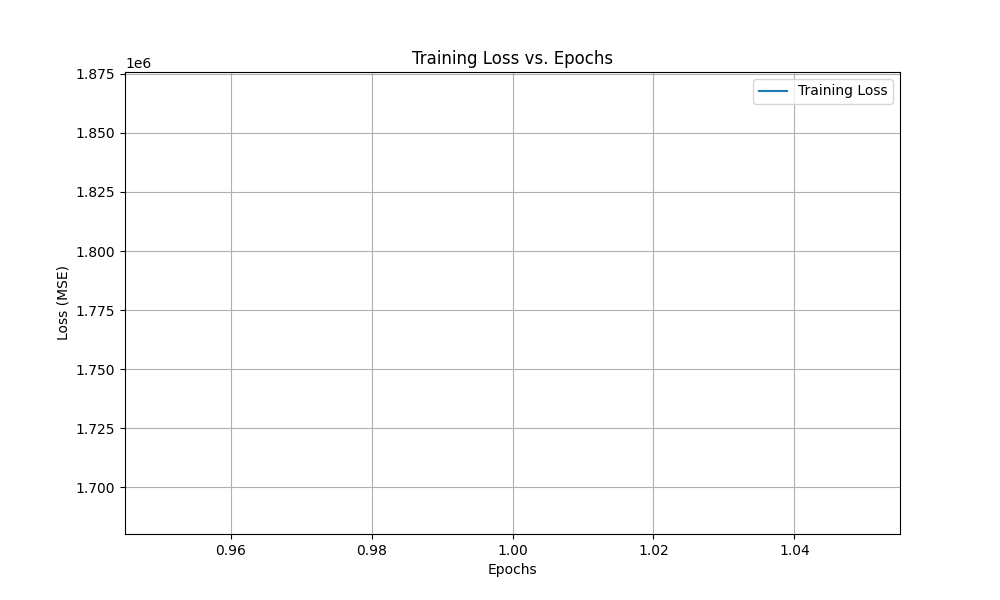
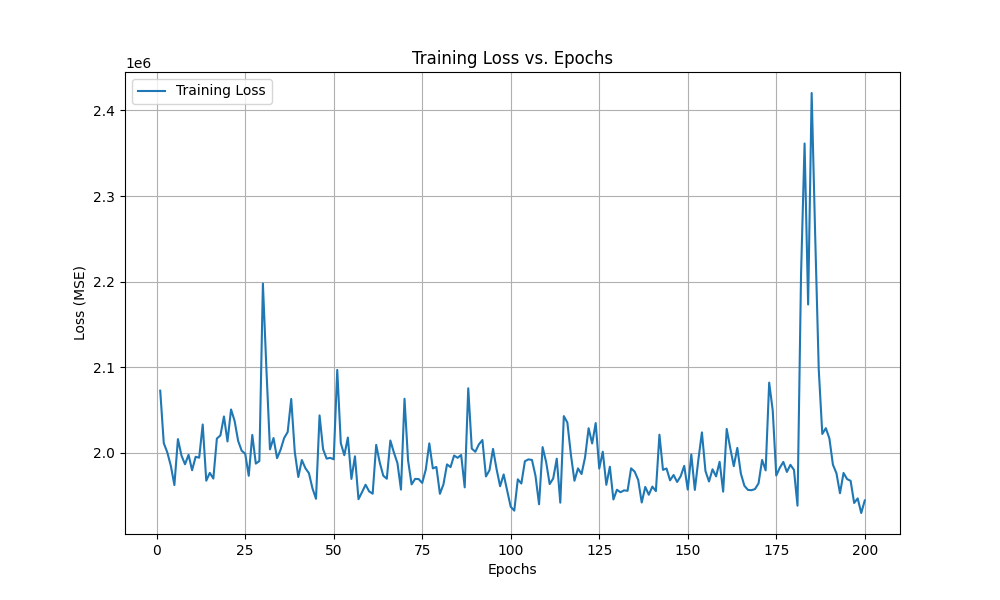
can create training set and CNN

diff --git a/neural_to_cbd.py b/neural_to_cbd.py
@@ -7,37 +7,9 @@ from PIL import Image
 import os
 import random
 import le_tools
-try:
-    from neuralnet import MyCNN
-except ImportError:
-    class MyCNN(nn.Module):
-        def __init__(self):
-            super(MyCNN, self).__init__()
-            self.conv1 = nn.Conv2d(in_channels=128, out_channels=64, kernel_size=3, padding=1)
-            self.relu1 = nn.ReLU()
-            self.conv2 = nn.Conv2d(in_channels=64, out_channels=32, kernel_size=3, padding=1)
-            self.relu2 = nn.ReLU()
-            self.conv3 = nn.Conv2d(in_channels=32, out_channels=16, kernel_size=3, padding=1)
-            self.relu3 = nn.ReLU()
-            self.conv4 = nn.Conv2d(in_channels=16, out_channels=4, kernel_size=3, padding=1)
-            self.relu4 = nn.ReLU()
-            self.conv5 = nn.Conv2d(in_channels=4, out_channels=2, kernel_size=3, padding=1)
-            self.relu5 = nn.ReLU()
-            self.conv6 = nn.Conv2d(in_channels=2, out_channels=1, kernel_size=3, padding=1)
+from neuralnet import MyCNN
 
-        def forward(self, x):
-            x = self.conv1(x)
-            x = self.relu1(x)
-            x = self.conv2(x)
-            x = self.relu2(x)
-            x = self.conv3(x)
-            x = self.relu3(x)
-            x = self.conv4(x)
-            x = self.relu4(x)
-            x = self.conv5(x)
-            x = self.relu5(x)
-            x = self.conv6(x)
-            return x
+ 
 hhdcs_dir = '/Users/avnee/PointCloudLidarReplicate/HHDC'
 hhdcs_files = le_tools.get_files(hhdcs_dir, concat_dir=True)
 
@@ -109,22 +81,27 @@ def compare_random_sample(model_path, input_dir, target_dir):
     input_files = [f for f in os.listdir(input_dir) if f.endswith('.npz')]
     valid_pairs = []
     
+    # We now strictly look for the corresponding .npy file since we want to plot from array, not image
+    cbd_arrays_dir = '/Users/avnee/PointCloudLidarReplicate/cbd_arrays'
+
     for f_in in input_files:
         stem = os.path.splitext(f_in)[0]
-        f_target = f"{stem}.png"
+        # We need the numpy target to exist
+        f_target_npy = f"{stem}.npy"
         
-        if os.path.exists(os.path.join(target_dir, f_target)):
-            valid_pairs.append((f_in, f_target))
+        if os.path.exists(os.path.join(cbd_arrays_dir, f_target_npy)):
+            valid_pairs.append(f_in)
             
     if not valid_pairs:
-        print("No matches found using exact filename matching.")
+        print("No matches found (checked for corresponding .npy files in cbd_arrays).")
         return
 
-    chosen_input_file, chosen_target_file = random.choice(valid_pairs)
-    print(f"Comparing: {chosen_input_file}  <--->  {chosen_target_file}")
+    chosen_input_file = random.choice(valid_pairs)
+    print(f"Comparing: {chosen_input_file}")
 
     full_input_path = os.path.join(input_dir, chosen_input_file)
-    full_target_path = os.path.join(target_dir, chosen_target_file)
+    stem = os.path.splitext(chosen_input_file)[0]
+    npy_target_path = os.path.join(cbd_arrays_dir, f"{stem}.npy")
 
     npz_data = np.load(full_input_path)
     if 'tensor' in npz_data.files:
@@ -135,14 +112,16 @@ def compare_random_sample(model_path, input_dir, target_dir):
     input_array = input_array.transpose(2, 0, 1) 
     input_tensor = torch.from_numpy(input_array).unsqueeze(0)
 
+    # Resize input to match model training dimensions (32, 64)
+    target_size = (32, 64)
+    input_tensor = torch.nn.functional.interpolate(input_tensor, size=target_size, mode='bilinear', align_corners=False)
 
-    dest_height = input_array.shape[1]
-    dest_width = input_array.shape[2]
-    
-
-    original_target_img = Image.open(full_target_path).convert("RGB")
-    original_target_img = original_target_img.resize((dest_width, dest_height))
-    original_target_array = np.array(original_target_img)
+    # Load and interpolate the target array
+    raw_target = np.load(npy_target_path)
+    t_tensor = torch.from_numpy(raw_target).float().unsqueeze(0).unsqueeze(0)
+    # Use nearest neighbor interpolation for the ground truth grid to preserve values
+    t_tensor = torch.nn.functional.interpolate(t_tensor, size=target_size, mode='nearest')
+    target_data_for_plot = t_tensor.squeeze().numpy()
 
     with torch.no_grad():
         prediction_tensor = model(input_tensor)
@@ -153,25 +132,43 @@ def compare_random_sample(model_path, input_dir, target_dir):
     #output_npy_filename = f"prediction_{chosen_input_file.replace('.npz', '')}.npy"
    #np.save(output_npy_filename, prediction_array)
     #print(f"Saved model output to {output_npy_filename}")
-    hhdc_hr_dem, hhdc_hr_dtm, hhdc_hr_chm = get_views(hhdc_hr)
-    colors = ["darkblue", "darkgreen", "green", "yellow", "orange", "red", "darkred", "brown"]
+
+    # compute CHM for the specific sample
+    try:
+        if 'arr_0' in npz_data:
+            hhdc_obj = npz_data['arr_0']
+        elif 'tensor' in npz_data:
+             hhdc_obj = npz_data['tensor']
+        else:
+             hhdc_obj = npz_data[npz_data.files[0]]
+        _, _, (filtered_chm, _) = get_views(hhdc_obj)
+        filtered_chm = np.flipud(filtered_chm)
+    except Exception as e:
+        print(f"Error calculating CHM: {e}")
+        # fallback if calculation fails
+        hhdc_hr_dem, hhdc_hr_dtm, hhdc_hr_chm = get_views(hhdc_hr)
+        filtered_chm = hhdc_hr_chm[1]
+
+    colors = ["darkblue","darkgreen", "green","lightgreen", "yellow", "orange", "red", "darkred", "brown"]
     custom_cmap = LinearSegmentedColormap.from_list("forest_fire", colors, N=256)
 
     plt.figure(figsize=(18, 6))
 
     plt.subplot(1, 3, 1)
-    plt.imshow(hhdc_hr_chm[1], cmap='viridis')
+    plt.imshow(filtered_chm, cmap='viridis')
     plt.title(f"Input: CHM", fontsize=14)
     plt.colorbar()
+    
     plt.subplot(1, 3, 2)
-    plt.imshow(prediction_array, cmap=custom_cmap)
+    plt.imshow(target_data_for_plot, cmap=custom_cmap, vmin=0.0, vmax=0.10)
+    plt.title("Target (Ground Truth)", fontsize=14)
+    plt.colorbar()
+    
+    plt.subplot(1, 3, 3)
+    plt.imshow(prediction_array, cmap=custom_cmap, vmin=0.0, vmax=0.10)
     plt.title("Model Prediction", fontsize=14)
     plt.colorbar()
 
-
-    plt.subplot(1, 3, 3)
-    plt.imshow(original_target_array)
-    
     plt.suptitle(f"Verification: {chosen_input_file}", fontsize=16)
     plt.tight_layout()
     plt.show()

diff --git a/neuralnet.py b/neuralnet.py
@@ -18,35 +18,77 @@ random_hhdc = np.random.choice(hhdcs_files, 1)[0]
 print(f"Selected File: {random_hhdc}")
 
 hhdc_hr = np.load(random_hhdc)['arr_0']
+
+
 class MyCNN(nn.Module):
     def __init__(self):
         super(MyCNN, self).__init__()
-        self.conv1 = nn.Conv2d(in_channels=128, out_channels=64, kernel_size=3, padding=1)
-        self.relu1 = nn.ReLU()
-        self.conv2 = nn.Conv2d(in_channels=64, out_channels=32, kernel_size=3, padding=1)
-        self.relu2 = nn.ReLU()
-        self.conv3 = nn.Conv2d(in_channels=32, out_channels=16, kernel_size=3, padding=1)
-        self.relu3 = nn.ReLU()
-        self.conv4 = nn.Conv2d(in_channels=16, out_channels=4, kernel_size=3, padding=1)
-        self.relu4 = nn.ReLU()
-        self.conv5 = nn.Conv2d(in_channels=4, out_channels=2, kernel_size=3, padding=1)
-        self.relu5 = nn.ReLU()
-        self.conv6 = nn.Conv2d(in_channels=2, out_channels=1, kernel_size=3, padding=1)
+        
+        # --- BLOCK 1: 128 -> 64 channels (Residual) ---
+        self.conv1 = nn.Conv2d(128, 64, kernel_size=3, padding=1)
+        self.bn1 = nn.BatchNorm2d(64)
+        # 1x1 Conv to match channels for the skip connection
+        self.skip1 = nn.Conv2d(128, 64, kernel_size=1) 
+        self.lrelu1 = nn.LeakyReLU(negative_slope=0.01)
+        
+        # --- BLOCK 2: 64 -> 32 channels (Residual) ---
+        self.conv2 = nn.Conv2d(64, 32, kernel_size=3, padding=1)
+        self.bn2 = nn.BatchNorm2d(32)
+        # 1x1 Conv to match channels for the skip connection
+        self.skip2 = nn.Conv2d(64, 32, kernel_size=1)
+        self.lrelu2 = nn.LeakyReLU(negative_slope=0.01)
+        
+        # --- BLOCK 3: 32 -> 16 channels (Residual) ---
+        self.conv3 = nn.Conv2d(32, 16, kernel_size=3, padding=1)
+        self.bn3 = nn.BatchNorm2d(16)
+        # 1x1 Conv to match channels for the skip connection
+        self.skip3 = nn.Conv2d(32, 16, kernel_size=1)
+        self.lrelu3 = nn.LeakyReLU(negative_slope=0.01)
+        
+        # --- Standard blocks for small features ---
+        # Block 4: 16 -> 4 channels
+        self.conv4 = nn.Conv2d(16, 4, kernel_size=3, padding=1)
+        self.bn4 = nn.BatchNorm2d(4)
+        self.lrelu4 = nn.LeakyReLU(negative_slope=0.01)
+        
+        # Block 5: 4 -> 2 channels
+        self.conv5 = nn.Conv2d(4, 2, kernel_size=3, padding=1)
+        self.bn5 = nn.BatchNorm2d(2)
+        self.lrelu5 = nn.LeakyReLU(negative_slope=0.01)
+        
+        # Block 6: Final 1-channel projection
+        self.conv6 = nn.Conv2d(2, 1, kernel_size=3, padding=1)
 
     def forward(self, x):
-        x = self.conv1(x)
-        x = self.relu1(x)
-        x = self.conv2(x)
-        x = self.relu2(x)
-        x = self.conv3(x)
-        x = self.relu3(x)
-        x = self.conv4(x)
-        x = self.relu4(x)
-        x = self.conv5(x)
-        x = self.relu5(x)
-        x = self.conv6(x)
-        return x
+        # Block 1 (Residual)
+        identity = self.skip1(x)       # Project input to 64 channels
+        out = self.conv1(x)
+        out = self.bn1(out)
+        out += identity                # Add Residual
+        x = self.lrelu1(out)           # Activation after addition
 
+        # Block 2 (Residual)
+        identity = self.skip2(x)       # Project input to 32 channels
+        out = self.conv2(x)
+        out = self.bn2(out)
+        out += identity                # Add Residual
+        x = self.lrelu2(out)
+
+        # Block 3 (Residual)
+        identity = self.skip3(x)       # Project input to 16 channels
+        out = self.conv3(x)
+        out = self.bn3(out)
+        out += identity                # Add Residual
+        x = self.lrelu3(out)
+
+        # Remaining standard blocks
+        x = self.lrelu4(self.bn4(self.conv4(x)))
+        x = self.lrelu5(self.bn5(self.conv5(x)))
+        
+        # Final convolution
+        x = self.conv6(x)
+        
+        return x
 
 class ForestDataset(Dataset):
     def __init__(self, input_dir, target_dir):
@@ -83,8 +125,6 @@ class ForestDataset(Dataset):
         else:
             input_array = npz_data[npz_data.files[0]].astype(np.float32)
         
-        # Ensure channel first: (H, W, C) -> (C, H, W) OR (C, H, W) already?
-        # Standardize check: if last dim is 128, it's (H, W, C).
         if input_array.shape[-1] == 128:
              input_array = input_array.transpose(2, 0, 1) 
         
@@ -242,18 +282,18 @@ def visualize_results(model, dataloader):
     plt.title(title_text)
     plt.colorbar()
     plt.subplot(1, 3, 2)
-    plt.imshow(image_sample, cmap=custom_cmap)
+    plt.imshow(image_sample, cmap=custom_cmap, vmin=0.0,vmax=0.1)
     plt.title("Target (Ground Truth CBD)")
     plt.colorbar()
     plt.subplot(1, 3, 3)
-    plt.imshow(prediction_sample, cmap=custom_cmap)
+    plt.imshow(prediction_sample, cmap=custom_cmap, vmin=0.0,vmax=0.1)
     plt.title("Model Prediction")
     plt.colorbar()
     
     plt.show()
 
 if __name__ == "__main__":
-    dataloader = create_dataloader(input_dir, target_dir, batch_size=4) 
+    dataloader = create_dataloader(input_dir, target_dir, batch_size=64) 
     model = create_model()
     criterion = create_criterion()
     optimizer = create_optimizer(model)
@@ -261,10 +301,10 @@ if __name__ == "__main__":
     if os.path.exists('best_model.pth'):
         print("Using existing model to continue training...")
         model.load_state_dict(torch.load('best_model.pth'))
-    
+
     print("Starting training...")
     try:
-        training_loop(dataloader, model, criterion, optimizer, num_epochs=1000)
+        training_loop(dataloader, model, criterion, optimizer, num_epochs=200)
     except KeyboardInterrupt:
         print("\nTraining interrupted by user. Loading best model found so far...")
 

diff --git a/test.py b/test.py
@@ -4,8 +4,9 @@ import numpy as np
 # If it's a .npy file:
 try:
     np.set_printoptions(threshold=np.inf)
-    data = np.load('/Users/avnee/PointCloudLidarReplicate/cbd_arrays/361204.0_4301389.0_NEON_1_hhdc_casals.npy')
-    print("Shape:", data.shape)
-    print("Data content:\n", data)
+    data = np.load('/Users/avnee/PointCloudLidarReplicate/HHDC/NEON_D02_SERC_DP1_364000_4307000_classified_point_cloud_hhdc_casals.npz')
+    array_data = data['arr_0']
+    print("Shape:", array_data.shape)
+    #print("Data content:\n", data)
 except FileNotFoundError:
     print("File not found. Please check the path.")

diff --git a/generate_ground_truth.py b/generate_ground_truth.py
@@ -11,7 +11,7 @@ import re
 SUB_CUBE_SPATIAL_SIDE_SIZE = 200  
 PIXEL_RESOLUTION = 1.0             
 HHDC_DIR = "/Users/avnee/PointCloudLidarReplicate/HHDC"
-LAZ_DIR = "/Users/avnee/PointCloudLidarReplicate/NEON" 
+LAZ_DIR = "/Users/avnee/PointCloudLidarReplicate/NEON_1" 
 OUTPUT_ARRAY_DIR = "/Users/avnee/PointCloudLidarReplicate/cbd_arrays"
 OUTPUT_IMAGE_DIR = "/Users/avnee/PointCloudLidarReplicate/cbd_images"
 OUTPUT_PRETREATED_DIR = "/Users/avnee/PointCloudLidarReplicate/pretreated"
